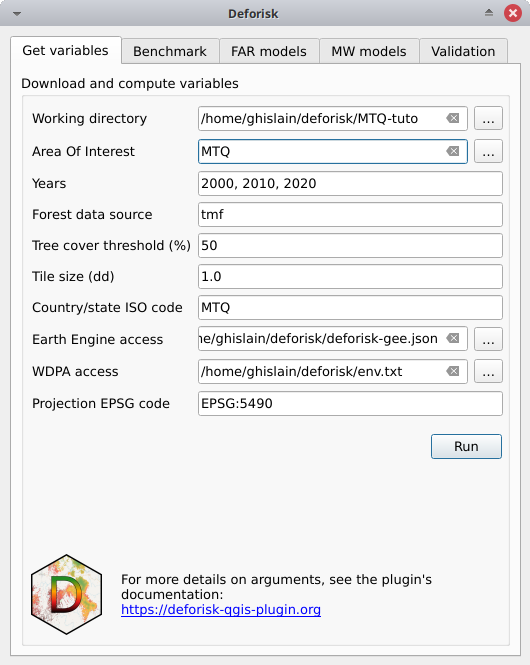
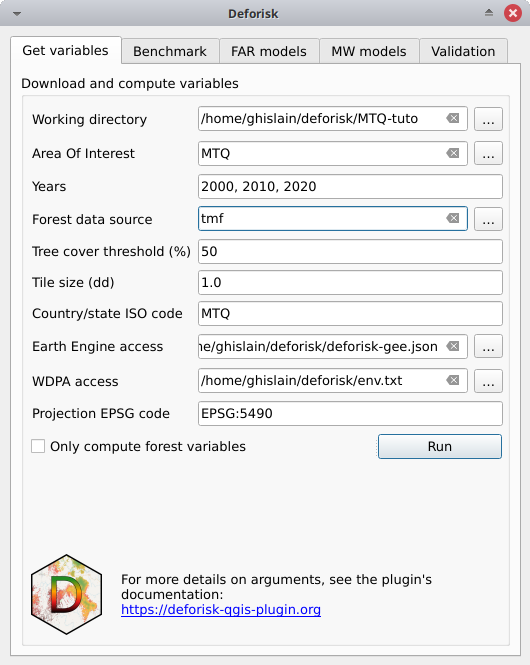
Updating website

diff --git a/help/docsrc/get_started.rst b/help/docsrc/get_started.rst
@@ -69,6 +69,8 @@ Get variables
 
 - ``Projection EPSG code``: EPSG:5490
 
+- ``Only compute forest variables``: **unchecked**, data will be downloaded from global data-sets (SRTM, WDPA, OSM) and explanatory variables other than forest related variables will be computed.
+
 .. warning::
     For Windows users, choose a working directory with a short path (e.g. ``C:\Users\<username>\<dirname>``). Long file paths can cause problems to access files on Windows.
 

diff --git a/help/docsrc/installation.rst b/help/docsrc/installation.rst
@@ -14,7 +14,7 @@ Installation
 
 .. note::
 
-    **Installation**: We hereby describe two ways for installating the ``deforisk`` plugin:
+    **Installation**: We hereby describe two ways for installing the ``deforisk`` plugin:
 
     - First option is to install the QGIS client and GDAL on your system and then install the ``forestatrisk`` and ``riskmapjnr`` Python packages. This installation procedure is system-dependent.
 
